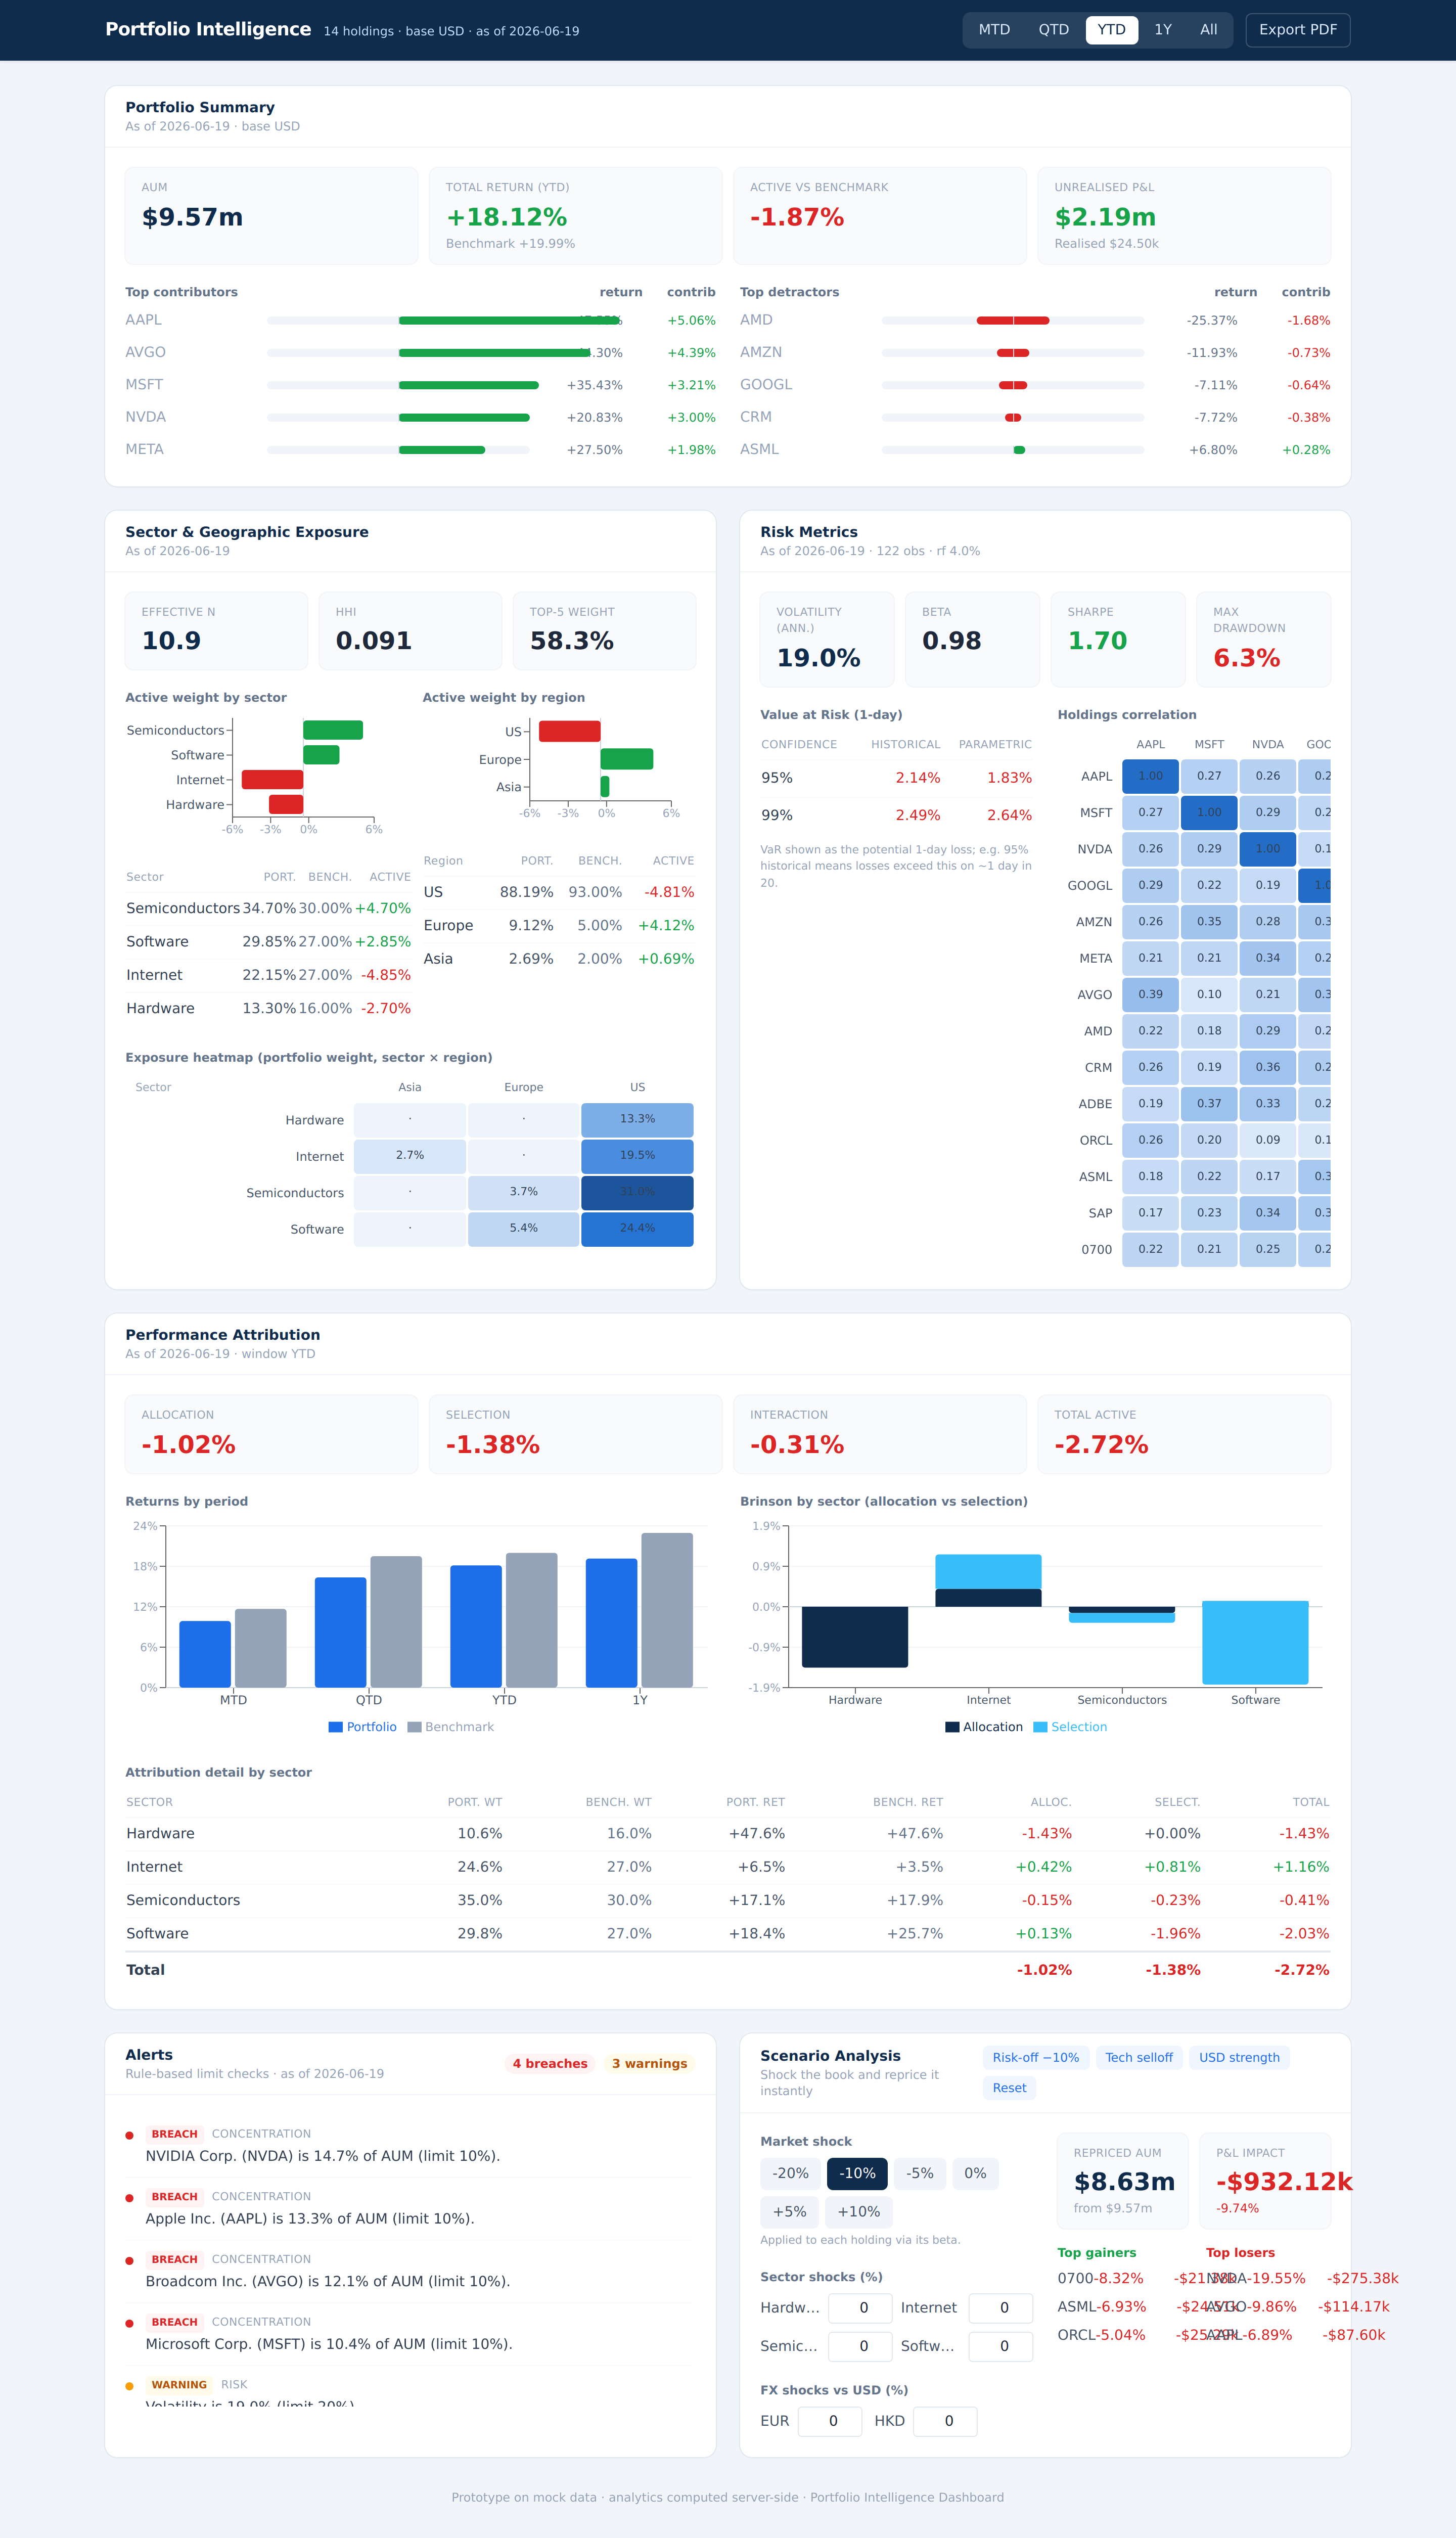
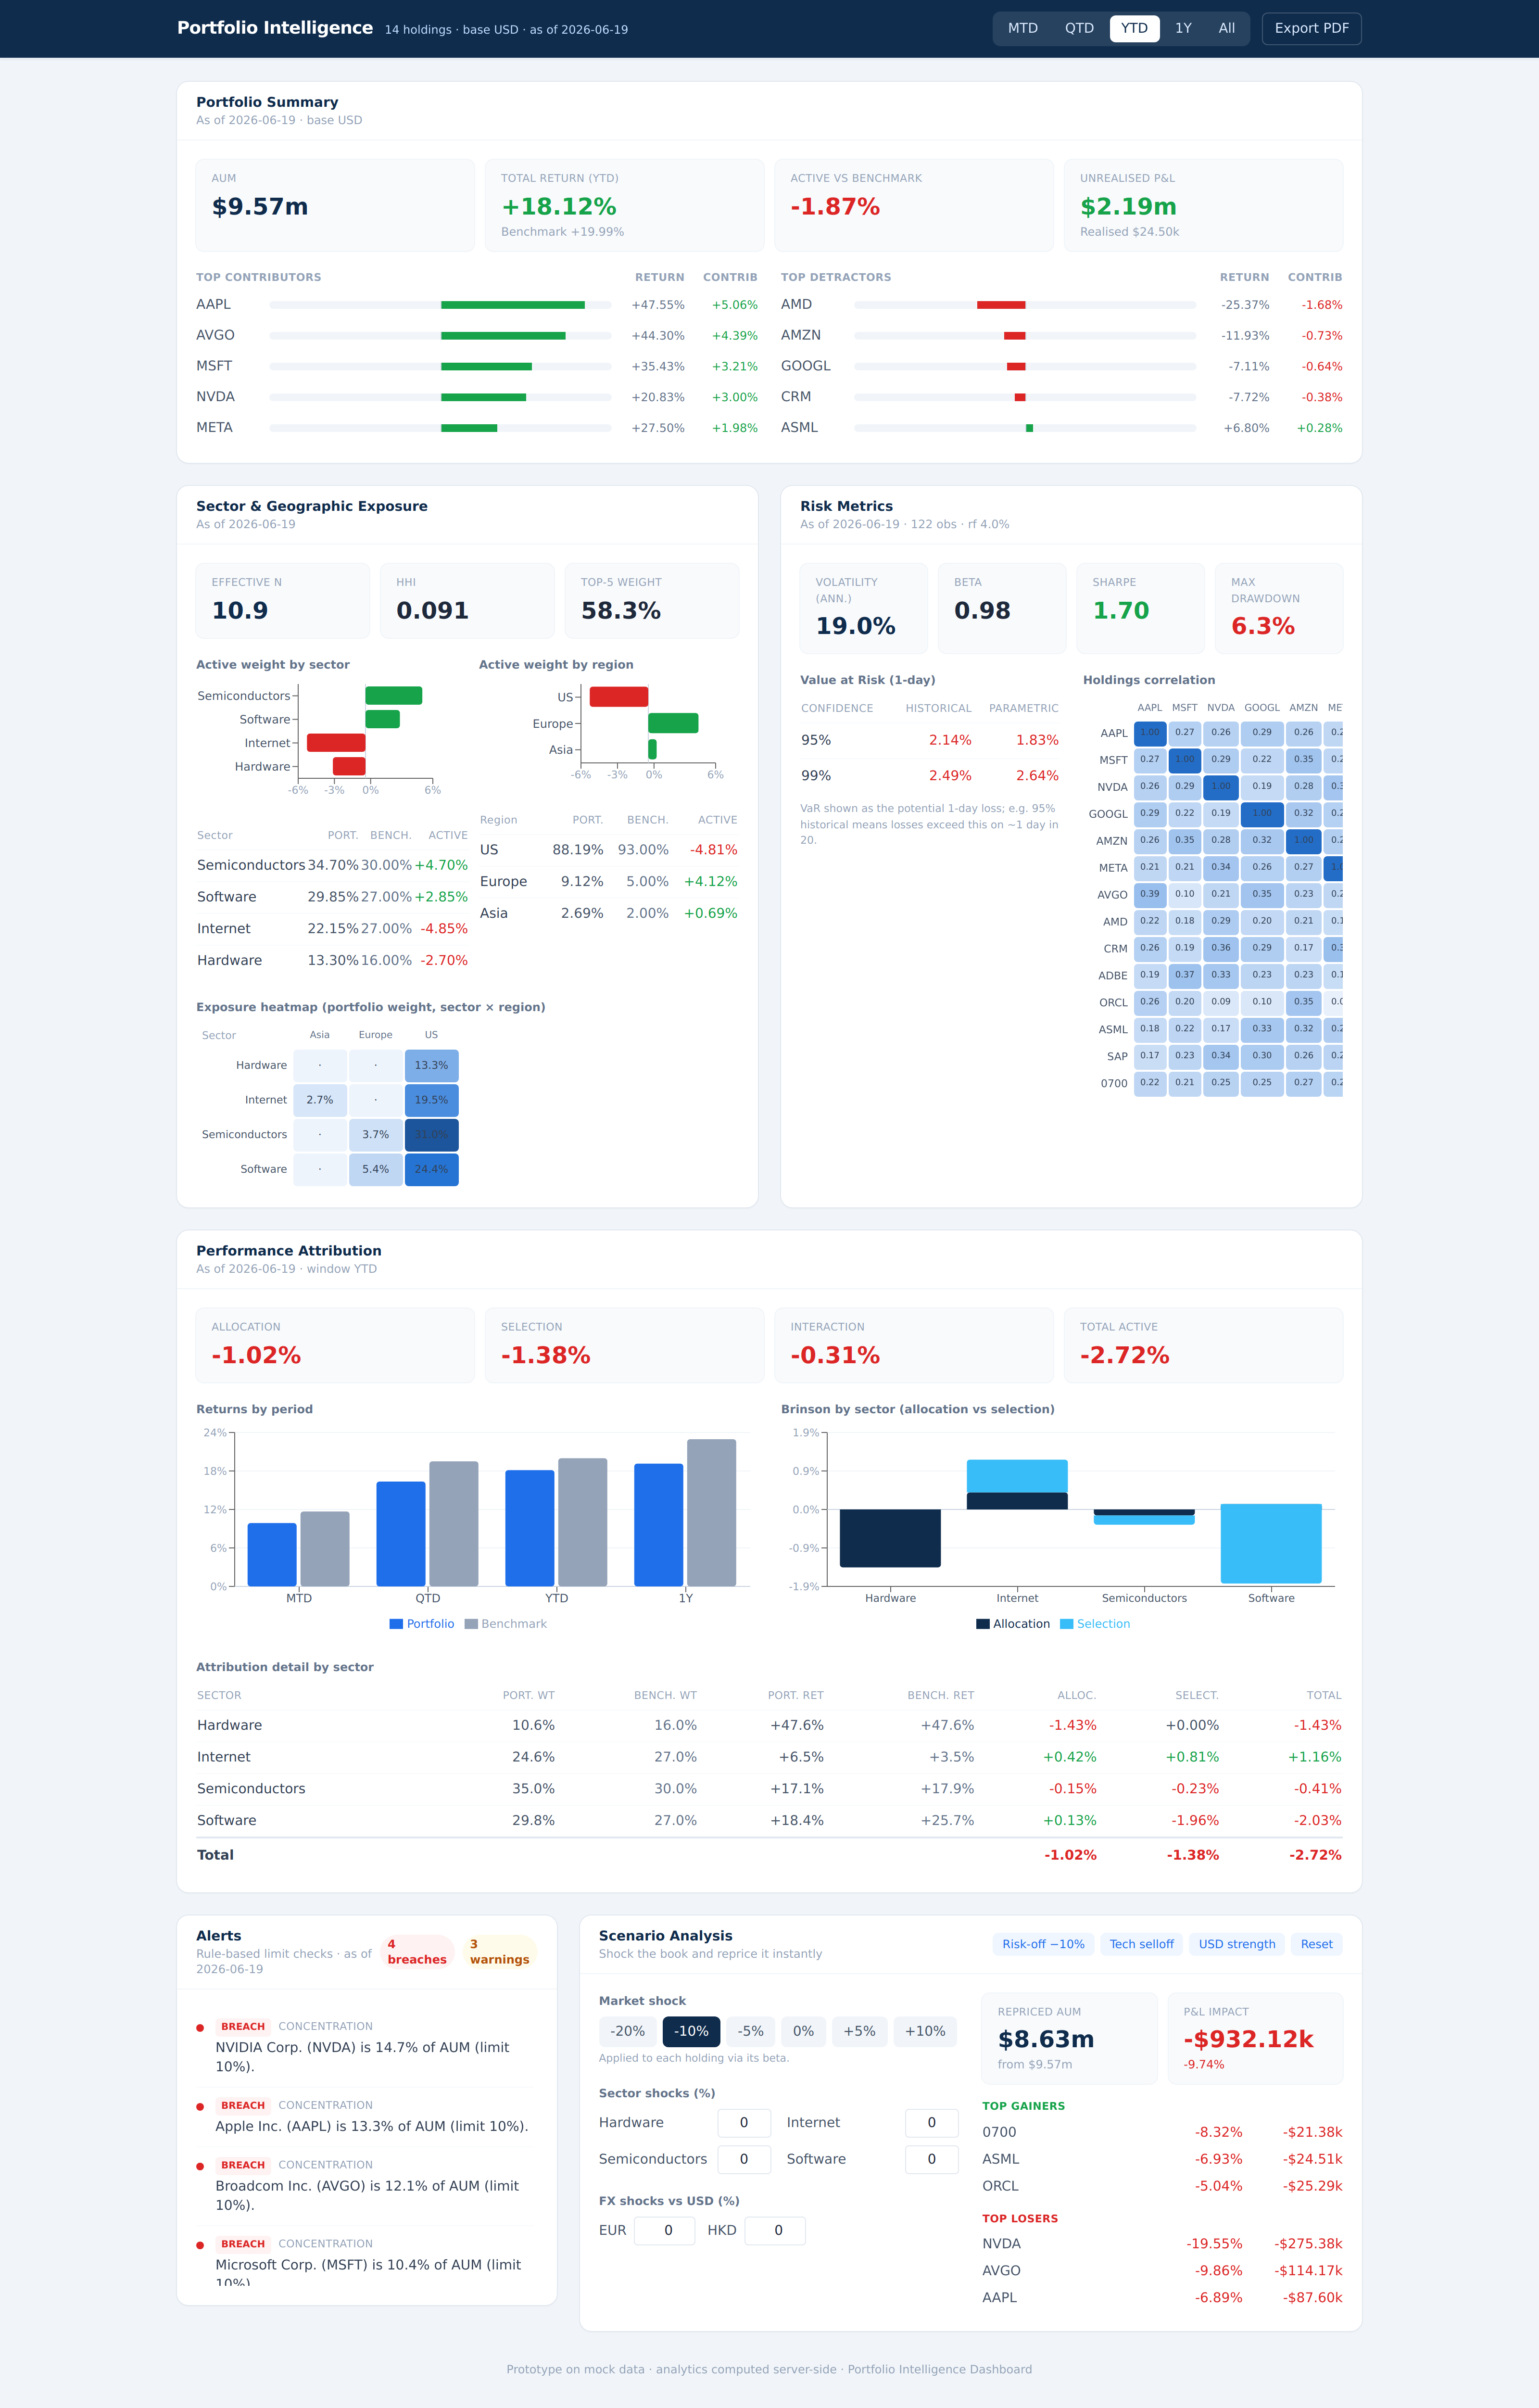
Fix dashboard visual imperfections
- Summary contributor bars: cap diverging bars at half the track width and
  clip overflow so they no longer cover the return/contribution columns;
  align the column headers.
- Scenario movers: stack Top gainers/losers vertically (the viewport-based
  grid forced them into overlapping columns) and widen the card to 2/3.
- Sector-shock labels no longer truncate; tighter inputs.
- Correlation matrix: compact cell size so the 14x14 grid fits the card.

Claude-Session: https://claude.ai/code/session_01SU1Rq5yRp257EzYNDRgxFz

diff --git a/frontend/src/sections/SummarySection.tsx b/frontend/src/sections/SummarySection.tsx
@@ -6,21 +6,23 @@ import { fmtMoney, fmtSignedPct, signClass } from "../lib/format";
 
 function ContribRow({ c }: { c: Contribution }) {
   const max = 0.06; // scale bar to a sensible contribution magnitude
-  const w = Math.min(Math.abs(c.contribution) / max, 1) * 100;
+  // Half-width bars diverge from a centre line; cap at 50% so they never
+  // overflow the track into the return column.
+  const w = Math.min(Math.abs(c.contribution) / max, 1) * 50;
   return (
     <div className="flex items-center gap-3 py-1.5">
-      <div className="w-32 truncate text-sm font-medium text-slate-700" title={c.name}>
-        <span className="text-slate-400">{c.ticker}</span>
+      <div className="w-16 shrink-0 truncate text-sm font-medium" title={c.name}>
+        <span className="text-slate-600">{c.ticker}</span>
       </div>
-      <div className="relative h-2 flex-1 rounded bg-slate-100">
+      <div className="relative h-2 flex-1 overflow-hidden rounded bg-slate-100">
         <div
-          className={`absolute top-0 h-2 rounded ${c.contribution >= 0 ? "bg-positive" : "bg-negative"}`}
-          style={{ width: `${w}%`, left: c.contribution >= 0 ? "50%" : `${50 - w / 2}%` }}
+          className={`absolute top-0 h-2 ${c.contribution >= 0 ? "bg-positive" : "bg-negative"}`}
+          style={{ width: `${w}%`, left: c.contribution >= 0 ? "50%" : `${50 - w}%` }}
         />
         <div className="absolute left-1/2 top-0 h-2 w-px bg-slate-300" />
       </div>
-      <div className="w-20 text-right text-xs tabular text-slate-500">{fmtSignedPct(c.return)}</div>
-      <div className={`w-20 text-right text-xs tabular font-medium ${signClass(c.contribution)}`}>
+      <div className="w-16 shrink-0 text-right text-xs tabular text-slate-500">{fmtSignedPct(c.return)}</div>
+      <div className={`w-16 shrink-0 text-right text-xs tabular font-medium ${signClass(c.contribution)}`}>
         {fmtSignedPct(c.contribution)}
       </div>
     </div>
@@ -60,16 +62,18 @@ export function SummarySection({ window }: { window: WindowCode }) {
 
       <div className="mt-5 grid grid-cols-1 gap-6 lg:grid-cols-2">
         <div>
-          <div className="mb-1 flex items-center justify-between text-xs font-semibold text-slate-500">
-            <span>Top contributors</span>
-            <span className="flex gap-6"><span>return</span><span>contrib</span></span>
+          <div className="mb-1 flex items-center gap-3 text-[11px] font-semibold uppercase tracking-wide text-slate-400">
+            <span className="flex-1">Top contributors</span>
+            <span className="w-16 shrink-0 text-right">return</span>
+            <span className="w-16 shrink-0 text-right">contrib</span>
           </div>
           {data.top_contributors.map((c) => <ContribRow key={c.ticker} c={c} />)}
         </div>
         <div>
-          <div className="mb-1 flex items-center justify-between text-xs font-semibold text-slate-500">
-            <span>Top detractors</span>
-            <span className="flex gap-6"><span>return</span><span>contrib</span></span>
+          <div className="mb-1 flex items-center gap-3 text-[11px] font-semibold uppercase tracking-wide text-slate-400">
+            <span className="flex-1">Top detractors</span>
+            <span className="w-16 shrink-0 text-right">return</span>
+            <span className="w-16 shrink-0 text-right">contrib</span>
           </div>
           {data.top_detractors.map((c) => <ContribRow key={c.ticker} c={c} />)}
         </div>

diff --git a/frontend/src/sections/ScenarioSection.tsx b/frontend/src/sections/ScenarioSection.tsx
@@ -15,13 +15,13 @@ function pctToFrac(p: Pct): Pct {
 
 function MoverRow({ h }: { h: ScenarioHolding }) {
   return (
-    <div className="flex items-center justify-between py-1 text-sm">
-      <span className="font-medium text-slate-600">{h.ticker}</span>
-      <span className="flex items-center gap-3">
-        <span className={`tabular ${signClass(h.shock_return)}`}>{fmtSignedPct(h.shock_return)}</span>
-        <span className={`w-20 text-right tabular ${signClass(h.value_change)}`}>
-          {fmtMoney(h.value_change)}
-        </span>
+    <div className="flex items-center gap-2 py-1 text-sm">
+      <span className="w-14 shrink-0 font-medium text-slate-600">{h.ticker}</span>
+      <span className={`flex-1 text-right tabular ${signClass(h.shock_return)}`}>
+        {fmtSignedPct(h.shock_return)}
+      </span>
+      <span className={`w-24 shrink-0 text-right tabular ${signClass(h.value_change)}`}>
+        {fmtMoney(h.value_change)}
       </span>
     </div>
   );
@@ -104,17 +104,17 @@ export function ScenarioSection({ sectors }: { sectors: string[] }) {
           <p className="mt-1 text-[11px] text-slate-400">Applied to each holding via its beta.</p>
 
           <h3 className="mb-2 mt-5 text-xs font-semibold text-slate-500">Sector shocks (%)</h3>
-          <div className="grid grid-cols-2 gap-2">
+          <div className="grid grid-cols-2 gap-x-4 gap-y-2">
             {sectors.map((s) => (
               <label key={s} className="flex items-center justify-between gap-2 text-sm">
-                <span className="truncate text-slate-600">{s}</span>
+                <span className="min-w-0 flex-1 truncate text-slate-600" title={s}>{s}</span>
                 <input
                   type="number"
                   value={sectorShocks[s] ?? 0}
                   onChange={(e) =>
                     setSectorShocks((p) => ({ ...p, [s]: Number(e.target.value) }))
                   }
-                  className="w-16 rounded border border-slate-200 px-2 py-1 text-right tabular"
+                  className="w-14 shrink-0 rounded border border-slate-200 px-2 py-1 text-right tabular"
                 />
               </label>
             ))}
@@ -159,13 +159,17 @@ export function ScenarioSection({ sectors }: { sectors: string[] }) {
                   }
                 />
               </div>
-              <div className="mt-4 grid grid-cols-2 gap-6">
+              <div className="mt-4 space-y-3">
                 <div>
-                  <h4 className="mb-1 text-xs font-semibold text-positive">Top gainers</h4>
+                  <h4 className="mb-1 text-[11px] font-semibold uppercase tracking-wide text-positive">
+                    Top gainers
+                  </h4>
                   {data.top_gainers.map((h) => <MoverRow key={h.ticker} h={h} />)}
                 </div>
                 <div>
-                  <h4 className="mb-1 text-xs font-semibold text-negative">Top losers</h4>
+                  <h4 className="mb-1 text-[11px] font-semibold uppercase tracking-wide text-negative">
+                    Top losers
+                  </h4>
                   {data.top_losers.map((h) => <MoverRow key={h.ticker} h={h} />)}
                 </div>
               </div>

diff --git a/frontend/src/components/Matrix.tsx b/frontend/src/components/Matrix.tsx
@@ -8,6 +8,7 @@ export function Matrix({
   color,
   format,
   rowHeader = "",
+  cellSize = 56,
 }: {
   rowLabels: string[];
   colLabels: string[];
@@ -15,17 +16,19 @@ export function Matrix({
   color: (v: number) => string;
   format: (v: number) => string;
   rowHeader?: string;
+  cellSize?: number;
 }) {
+  const dense = cellSize < 48;
   return (
     <div className="overflow-x-auto">
-      <table className="w-full border-separate" style={{ borderSpacing: 2 }}>
+      <table className="border-separate" style={{ borderSpacing: 2 }}>
         <thead>
           <tr>
-            <th className="px-2 py-1 text-left text-[11px] font-medium text-slate-400">
+            <th className="px-1 py-1 text-left text-[11px] font-medium text-slate-400">
               {rowHeader}
             </th>
             {colLabels.map((c) => (
-              <th key={c} className="px-2 py-1 text-center text-[11px] font-medium text-slate-500">
+              <th key={c} className="px-1 py-1 text-center text-[10px] font-medium text-slate-500">
                 {c}
               </th>
             ))}
@@ -34,14 +37,14 @@ export function Matrix({
         <tbody>
           {rowLabels.map((r, i) => (
             <tr key={r}>
-              <td className="whitespace-nowrap px-2 py-1 text-right text-xs font-medium text-slate-600">
+              <td className="whitespace-nowrap px-1 py-1 text-right text-[11px] font-medium text-slate-600">
                 {r}
               </td>
               {values[i].map((v, j) => (
                 <td
                   key={j}
-                  className="rounded text-center text-[11px] tabular text-slate-700"
-                  style={{ backgroundColor: color(v), minWidth: 56, height: 34 }}
+                  className={`rounded text-center tabular text-slate-700 ${dense ? "text-[9px]" : "text-[11px]"}`}
+                  style={{ backgroundColor: color(v), minWidth: cellSize, width: cellSize, height: dense ? 26 : 34 }}
                   title={`${r} × ${colLabels[j]}: ${format(v)}`}
                 >
                   {format(v)}

diff --git a/frontend/src/App.tsx b/frontend/src/App.tsx
@@ -46,10 +46,14 @@ export default function App() {
         {/* Attribution full width */}
         <AttributionSection window={window} />
 
-        {/* P1 stretch: alerts + scenario analysis */}
-        <div className="grid grid-cols-1 gap-6 xl:grid-cols-2">
-          <AlertsSection window={window} />
-          <ScenarioSection sectors={meta?.sectors ?? []} />
+        {/* P1 stretch: alerts (compact) + scenario analysis (wider) */}
+        <div className="grid grid-cols-1 gap-6 xl:grid-cols-3">
+          <div className="xl:col-span-1">
+            <AlertsSection window={window} />
+          </div>
+          <div className="xl:col-span-2">
+            <ScenarioSection sectors={meta?.sectors ?? []} />
+          </div>
         </div>
       </div>
     </Shell>

diff --git a/frontend/src/sections/RiskSection.tsx b/frontend/src/sections/RiskSection.tsx
@@ -74,6 +74,7 @@ export function RiskSection({ window }: { window: WindowCode }) {
             values={data.correlation.matrix}
             color={corrColor}
             format={(v) => v.toFixed(2)}
+            cellSize={34}
           />
         </div>
       </div>